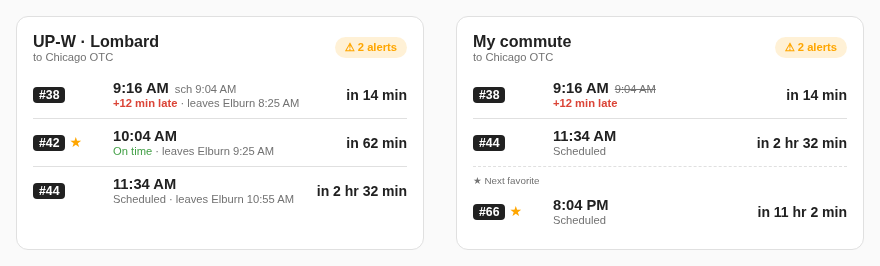
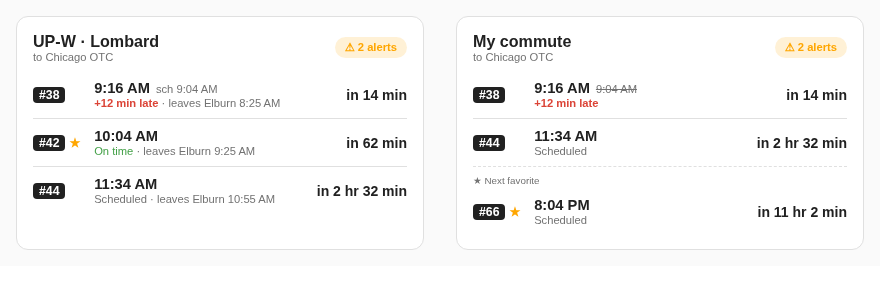
Fit the train number column to the longest number shown
The column was a fixed width that grew with text size, which left a large
gap beside short train numbers. Update the screenshots to match.

diff --git a/custom_components/metra_train_tracker/frontend/metra-train-tracker-card.js b/custom_components/metra_train_tracker/frontend/metra-train-tracker-card.js
@@ -117,6 +117,13 @@ const STYLES = `
     color: var(--mtt-bg);
     background: var(--mtt-fg);
   }
+  /* Sized for the longest number shown, so rows line up without spare room. 12px is the badge padding. */
+  .number {
+    min-width: calc(var(--mtt-number-chars) * 1ch + 12px + var(--mtt-star-width));
+    font-size: calc(0.875rem * var(--mtt-scale));
+    font-weight: 700;
+    white-space: nowrap;
+  }
   .star { margin-left: 4px; color: var(--mtt-warn); }
   .old-time { margin-left: 6px; font-size: calc(0.8rem * var(--mtt-scale)); color: var(--mtt-muted); text-decoration: line-through; }
   .scheduled-time { margin-left: 6px; font-size: calc(0.8rem * var(--mtt-scale)); color: var(--mtt-muted); }
@@ -126,7 +133,7 @@ const STYLES = `
   .warn { color: var(--mtt-warn); color: color-mix(in srgb, var(--mtt-warn) 78%, var(--mtt-fg)); font-weight: 600; }
   .muted { color: var(--mtt-muted); }
 
-  .row { display: grid; grid-template-columns: calc(72px + (var(--mtt-scale) - 1) * 50px) 1fr auto; gap: 8px; align-items: center; padding: calc(9px * var(--mtt-scale)) 0; border-top: 1px solid var(--mtt-rule); }
+  .row { display: grid; grid-template-columns: max-content 1fr auto; gap: calc(10px * var(--mtt-scale)); align-items: center; padding: calc(9px * var(--mtt-scale)) 0; border-top: 1px solid var(--mtt-rule); }
   .row:first-child { border-top: 0; }
   .time-line { display: flex; flex-wrap: wrap; align-items: baseline; column-gap: 6px; }
   .time-line .old-time, .time-line .scheduled-time { margin-left: 0; }
@@ -145,8 +152,8 @@ const STYLES = `
   .pin-label { padding: 8px 0 2px; font-size: calc(0.7rem * var(--mtt-scale)); color: var(--mtt-muted); border-top: 1px dashed var(--mtt-rule); }
   .pin-label + .row { border-top: 0; }
 
-  .compact-row { display: grid; grid-template-columns: calc(64px + (var(--mtt-scale) - 1) * 50px) 1fr auto auto; gap: 8px; align-items: center; padding: calc(4px * var(--mtt-scale)) 0; font-size: calc(0.875rem * var(--mtt-scale)); }
-  .compact-row .badge { font-size: calc(0.8rem * var(--mtt-scale)); }
+  .compact-row { display: grid; grid-template-columns: max-content 1fr auto auto; gap: calc(8px * var(--mtt-scale)); align-items: center; padding: calc(4px * var(--mtt-scale)) 0; font-size: calc(0.875rem * var(--mtt-scale)); }
+  .compact-row .badge, .compact-row .number { font-size: calc(0.8rem * var(--mtt-scale)); }
   .compact-row .time { font-size: inherit; }
   .compact-row .countdown { min-width: calc(44px * var(--mtt-scale)); }
   .compact-delay { font-size: calc(0.8rem * var(--mtt-scale)); }
@@ -416,6 +423,10 @@ class MetraTrainTrackerCard extends HTMLElement {
     const rows = facts.map(render);
     if (pin) rows.push(el("div", "pin-label", "★ Next favorite"), render(pin));
     const list = el("div", "");
+    const shown = pin ? [...facts, pin] : facts;
+    const markFavorites = this._config.favorites !== "highlight" && shown.some((trip) => trip.favorite);
+    list.style.setProperty("--mtt-number-chars", Math.max(...shown.map((trip) => `#${trip.train}`.length)));
+    list.style.setProperty("--mtt-star-width", markFavorites ? "calc(1.2em + 4px)" : "0px");
     list.append(...rows);
     return [list];
   }
@@ -485,7 +496,7 @@ class MetraTrainTrackerCard extends HTMLElement {
 
   _renderRow(trip) {
     const row = el("div", this._isHighlighted(trip) ? "row highlight" : "row");
-    const badge = el("div", "");
+    const badge = el("div", "number");
     this._renderTrainBadge(trip, badge);
 
     const details = el("div", "details");
@@ -509,7 +520,7 @@ class MetraTrainTrackerCard extends HTMLElement {
 
   _renderCompactRow(trip) {
     const row = el("div", this._isHighlighted(trip) ? "compact-row highlight" : "compact-row");
-    const badge = el("span", "");
+    const badge = el("span", "number");
     this._renderTrainBadge(trip, badge);
     const time = this._config.time_display === "scheduled" ? trip.scheduled : trip.expected;
     const delay = trip.delayed ? trip.status.text.replace(/ min (late|early)$/, "") : "";
